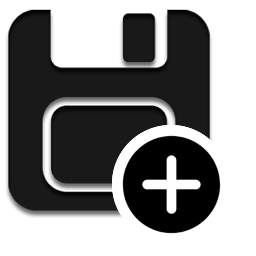
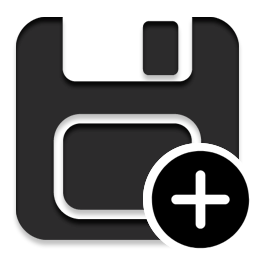
V1.0.3 - Reflectance & transmittance added

diff --git a/dev/widgets/spectrometer_frame.py b/dev/widgets/spectrometer_frame.py
@@ -5,6 +5,7 @@ from matplotlib.backends.backend_tkagg import FigureCanvasTkAgg, NavigationToolb
 from matplotlib.figure import Figure
 from datetime import *
 import threading
+import numpy
 import time
 import csv
 
@@ -34,6 +35,7 @@ class SpectrometerFrame(CTkFrame):
         self.popup = None
         self.backup_name = None
         self.stop_after_saves = False
+        self.reflectance_mode = False
         self.save_frequency = 1
         self.backups_counts_memorie = 10
         self.wavelengths, self.intensities = None, None
@@ -43,7 +45,7 @@ class SpectrometerFrame(CTkFrame):
 
 
     def connect(self):
-        if self.spectrometer.connect():
+        if self.spectrometer.connect() or True:
             self.disconnected_label.grid_forget()
             self.disconnected_button.grid_forget()
 
@@ -65,14 +67,18 @@ class SpectrometerFrame(CTkFrame):
             self.light_reference_button.grid(row=2, column=2, padx=5, pady=5, sticky="ne")
             self.dark_reference_button = CTkButton(self, text="", width=40, height=40, image=img_bulb_off, fg_color="transparent", command=self.set_dark_reference)
             self.dark_reference_button.grid(row=3, column=2, padx=5, pady=5, sticky="ne")
-            self.play_button = CTkButton(self, text="", width=30, height=40,  image=img_play, fg_color="transparent", command=self.start_spectrometer)
+            self.play_button = CTkButton(self, text="", width=40, height=40,  image=img_play, fg_color="transparent", command=self.start_spectrometer)
             self.play_button.grid(row=0, column=0, padx=5, pady=5, sticky="nw")
-            self.pause_button = CTkButton(self, text="", width=30, height=40, image=img_pause, fg_color="transparent", command=self.stop_spectrometer)
+            self.pause_button = CTkButton(self, text="", width=40, height=40, image=img_pause, fg_color="transparent", command=self.stop_spectrometer)
             self.pause_button.grid(row=0, column=0, padx=5, pady=5, sticky="nw")
-            self.save_button = CTkButton(self, text="", width=30, height=40, image=img_save, fg_color="transparent", command=self.save_data)
+            self.save_button = CTkButton(self, text="", width=40, height=40, image=img_save, fg_color="transparent", command=self.save_data)
             self.save_button.grid(row=1, column=0, padx=5, pady=5, sticky="nw")
-            self.save_button = CTkButton(self, text="", width=30, height=40, image=img_advanced_save, fg_color="transparent", command=self.advanced_save_popup)
+            self.save_button = CTkButton(self, text="", width=40, height=40, image=img_advanced_save, fg_color="transparent", command=self.advanced_save_popup)
             self.save_button.grid(row=2, column=0, padx=5, pady=5, sticky="nw")
+            self.reflectance_data_button = CTkButton(self, text="%", font=("Arial", 25), width=40, height=40, fg_color="transparent", command=self.toggle_mode)
+            self.reflectance_data_button.grid(row=3, column=0, padx=5, pady=5, sticky="nw")
+            self.raw_data_button = CTkButton(self, text="#", font=("Arial", 25), width=40, height=40, fg_color="transparent", command=self.toggle_mode)
+            self.raw_data_button.grid(row=3, column=0, padx=5, pady=5, sticky="nw")
 
             if self.spectrometer.enable:
                 self.start_spectrometer()
@@ -99,20 +105,47 @@ class SpectrometerFrame(CTkFrame):
         self.play_button.lift()
 
 
+    def toggle_mode(self):
+        if self.reflectance_mode:
+            self.reflectance_mode = False
+            self.raw_data_button.lift()
+        else:
+            if not self.light_reference or not self.dark_reference:
+                self.notification(f"To use reflectance or transmittance, you need both light and dark references", color="#8e0101")
+                return
+            self.reflectance_mode = True
+            self.reflectance_data_button.lift()
+            if self.light_ref_acquisition_time != self.dark_ref_acquisition_time:
+                self.notification(f"Light reference acquisition time differs from dark", color="#e17e00")              
+            if self.light_ref_acquisition_time != self.spectrometer.integration_time:
+                self.notification(f"Light reference acquisition time differs from current", color="#e17e00")              
+            if self.dark_ref_acquisition_time != self.spectrometer.integration_time:
+                self.notification(f"Dark reference acquisition time differs from current", color="#e17e00")              
+
+
     def update_graph(self):
         if self.spectrometer.is_running:
             if not self.spectrometer.chart_queue.empty():
                 self.wavelengths, self.intensities = self.spectrometer.chart_queue.get()
                 self.plot1.clear()
-                self.plot1.plot(self.wavelengths, self.intensities)
+                if self.reflectance_mode:
+                    denominator = self.light_reference_intensities - self.dark_reference_intensities
+                    denominator = numpy.where(denominator == 0, numpy.nan, denominator)
+                    self.reflectance_intensities = (self.intensities - self.dark_reference_intensities) / denominator * 100
+                    intensities = self.reflectance_intensities
+                    self.plot1.set_ylabel('Relative intensity [%]')
+                    self.plot1.set_ylim(-20, 180)
+                else:
+                    intensities = self.intensities
+                    self.plot1.set_ylabel('Intensity [counts]')
+                self.plot1.plot(self.wavelengths, intensities)
                 self.plot1.set_xlabel('Wavelength [nm]')
-                self.plot1.set_ylabel('Intensity [counts]')
                 self.plot1.grid()
                 self.canvas.draw()
             self.after(20, self.update_graph)
 
 
-    def save_data(self, file_path=None, wavelengths=None, intensities=None, single_save=True):
+    def save_data(self, file_path=None, wavelengths=None, intensities=None, single_save=True, reference=False):
         wavelengths = wavelengths if wavelengths is not None else self.wavelengths
         intensities = intensities if intensities is not None else self.intensities
         if wavelengths is not None and intensities is not None:
@@ -127,6 +160,17 @@ class SpectrometerFrame(CTkFrame):
                         writer.writerow(['Wavelength [nm]', ' Intensity [counts]'])
                         writer.writerow(['>>>>>Begin Spectral Data<<<<<'])
                         writer.writerows(zip(wavelengths, intensities))
+                    if self.reflectance_mode and not reference:
+                        denominator = self.light_reference_intensities - self.dark_reference_intensities
+                        denominator = numpy.where(denominator == 0, numpy.nan, denominator)
+                        intensities = (intensities - self.dark_reference_intensities) / denominator * 100
+                        directory, filename = os.path.split(file_path)
+                        file_path = f"{directory}/relative_{filename}"
+                        with open(file_path, mode='w', newline='') as file:
+                            writer = csv.writer(file)
+                            writer.writerow(['Wavelength [nm]', ' Relative intensity [%]'])
+                            writer.writerow(['>>>>>Begin Spectral Data<<<<<'])
+                            writer.writerows(zip(wavelengths, intensities))
                     if single_save:
                         self.notification(f"Successfully saved as", file_path, "#1a8300")
                         print(f"Data saved successfully to {file_path}")
@@ -279,13 +323,13 @@ class SpectrometerFrame(CTkFrame):
 
         self.popup.withdraw()
         reference_path = os.path.dirname(self.file_path)
-        end_file = f"_{self.backup_name}_{self.file_counts}__{datetime.now():%Y%m%d_%H.%M.%S}_{self.acquisition_time}ms.txt"
+        end_file = f"_{self.backup_name}_{str(self.file_counts)}__{datetime.now():%Y%m%d_%H.%M.%S}_{self.acquisition_time}ms.txt"
         if self.light_reference:
-            self.save_data(f"{reference_path}/reference{end_file}", self.light_reference_wavelengths, self.light_reference_intensities, False)
+            self.save_data(f"{reference_path}/reference{end_file}", self.light_reference_wavelengths, self.light_reference_intensities, False, True)
             if self.light_ref_acquisition_time != self.spectrometer.integration_time:
                 self.notification(f"Light reference acquisition time differs from current", color="#e17e00")
         if self.dark_reference:
-            self.save_data(f"{reference_path}/dark{end_file}", self.dark_reference_wavelengths, self.dark_reference_intensities, False)
+            self.save_data(f"{reference_path}/dark{end_file}", self.dark_reference_wavelengths, self.dark_reference_intensities, False, True)
             if self.dark_ref_acquisition_time != self.spectrometer.integration_time:
                 self.notification(f"Dark reference acquisition time differs from current", color="#e17e00")
 
@@ -363,9 +407,15 @@ class SpectrometerFrame(CTkFrame):
         if file_paths:
             if len(self.plot1.lines) == 1:
                 self.plot1.clear()
-                self.plot1.plot(self.wavelengths, self.intensities, label="Current")
+                if self.reflectance_mode:
+                    intensities = self.reflectance_intensities
+                    self.plot1.set_ylabel('Relative intensity [%]')
+                else:
+                    intensities = self.intensities
+                    self.plot1.set_ylabel('Intensity [counts]')
+
+                self.plot1.plot(self.wavelengths, intensities, label="Current")
                 self.plot1.set_xlabel('Wavelength [nm]')
-                self.plot1.set_ylabel('Intensity [counts]')
                 self.plot1.grid()
             
             for file_path in file_paths:

diff --git a/main.py b/main.py
@@ -18,5 +18,5 @@ lm_microscope = MyMicroscope("Lise Meitner",
     lm_filter_12 = MyFilter("Filter 12", "xxxx"),
     lm_platform = MyPlatform("Platform", "xxxx"))
 
-app = MyApp("V1.0.2", (1200, 700), gm_microscope, lm_microscope)
+app = MyApp("V1.0.3", (1200, 700), gm_microscope, lm_microscope)
 app.mainloop()

diff --git a/CHANGELOG.md b/CHANGELOG.md
@@ -1,5 +1,10 @@
 # Changelog
 
+## [1.0.3] - 2024-11-29
+### <span style="color:green"> Added </span>
+- Dev : It is now possible to display reflectance or transmittance
+- Dev : It is now possible to save reflectance or transmittance data
+
 ## [1.0.2] - 2024-11-29
 ### <span style="color:green"> Added </span>
 - Dev : Adds the ability to save light and dark references
